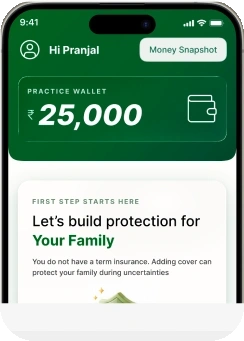
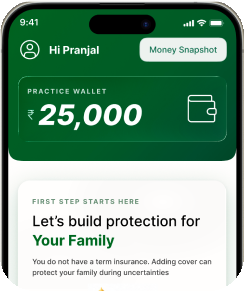
Fix cover decorative shape clipping and wallet phone crop
The bottom-left decorative circles used the same fixed pixel offset
(-bottom-40 -left-16) for two different sizes: the smaller green
circle's own diameter was less than that offset, pushing it entirely
past the section's overflow-hidden edge, and the larger dark circle
showed only a ~32px sliver. Switched both to a bottom-0/left-0 anchor
with a -50%/50% translate (relative to each circle's own size), so
they nest concentrically and each renders a clean, equally-sized
quarter-circle regardless of diameter.

The wallet (₹25,000) phone's crop extended past its own device frame
into a second, unrelated card bleeding in behind it in the source
screenshot; the rounded-corner alpha mask was applied to that whole
box, so its bottom corners sliced through that second card's icon
instead of closing over blank space. Recropped it to end right after
the wallet card's own visible text, before that trailing content
begins, and adjusted its collage box height to match. Also switched
the confidence-jar mask to only round its real (left) bezel corners
instead of a uniform radius that was cutting into the heading and
button on its unbordered right edge.

Claude-Session: https://claude.ai/code/session_01CvXyHwVeWoPLiFrqvSQd6F

diff --git a/components/stackup/cover-section.tsx b/components/stackup/cover-section.tsx
@@ -22,10 +22,23 @@ import { Container } from "@/components/stackup/container";
  * channel, a plain CSS `drop-shadow` filter correctly follows the
  * phone's silhouette instead of shadowing a rectangular bounding box.
  *
- * "confidence-jar" and "wallet" are still cropped exactly as far as
- * the source screenshot itself shows them — it cuts the first off at
- * its own right edge and the second at its own bottom edge, so there
- * is no more of either phone to recover without a fresh export.
+ * "confidence-jar" is still cropped exactly as far as the source
+ * screenshot itself shows it — its bezel's own right edge simply isn't
+ * captured (the visible card content already runs flush to the
+ * screenshot's edge, no border drawn), so its mask only rounds the two
+ * corners that have a real curve to follow (left side) and leaves the
+ * right side square rather than carving a fake curve through real text.
+ *
+ * "wallet"'s crop was previously taken all the way down to where the
+ * source screenshot itself ends, well past the phone's own frame —
+ * that tail was blank canvas plus the first sliver of a second,
+ * unrelated card bleeding in behind it, and the rounded-rect mask was
+ * being applied to that whole (wrong) box, so its bottom corners cut
+ * straight through that second card's icon instead of closing off a
+ * blank area. The crop now stops right after the wallet card's own
+ * visible text, before any of that trailing content begins, so the
+ * mask's rounded corners fall on clean background and the phone reads
+ * as one complete, self-contained screen.
  *
  * The cluster's own wrapper is capped with `lg:max-w-[30rem]` rather
  * than left to grow via `flex-1`: this bounding box's aspect ratio
@@ -39,7 +52,7 @@ const PHONES = [
   { src: "/images/stackup/phone-onboarding-cutout.webp", box: { left: 0, top: 16.1, width: 32.6, height: 63.1 }, z: 3 },
   { src: "/images/stackup/phone-starting-point-cutout.webp", box: { left: 35.7, top: 0, width: 32.9, height: 48.8 }, z: 2 },
   { src: "/images/stackup/phone-confidence-jar-cutout.webp", box: { left: 72.1, top: 15.9, width: 27.9, height: 63.1 }, z: 1 },
-  { src: "/images/stackup/phone-wallet-cutout.webp", box: { left: 35.8, top: 57.7, width: 32.4, height: 42.3 }, z: 2 },
+  { src: "/images/stackup/phone-wallet-cutout.webp", box: { left: 35.8, top: 57.7, width: 32.4, height: 36.1 }, z: 2 },
 ] as const;
 
 export function CoverSection() {
@@ -51,18 +64,27 @@ export function CoverSection() {
     >
       {/* Decorative bottom-left rings from the reference cover — plain
           CSS circles, not an image, since they're flat solid shapes.
-          Kept deliberately small and pushed well below the section's
-          own content edge so they clear the text column's tallest
-          wrap at any breakpoint. */}
+          Both are anchored to the exact same corner point (bottom-0
+          left-0) and pulled out by a `translate` expressed as a
+          percentage of each circle's OWN size, not a fixed pixel
+          offset. A fixed offset (e.g. -160px) shared between two
+          different-sized circles broke this: the smaller circle's own
+          diameter was less than the offset, pushing it entirely past
+          the section's overflow-hidden edge (0px visible), while the
+          larger circle showed only a paper-thin sliver instead of a
+          clean quarter-circle bleeding from the corner. A -50%/-50%
+          translate always leaves exactly one quarter of each circle
+          visible, regardless of its size, so they nest concentrically
+          and read as one intentional two-tone shape in the corner. */}
       <div
         aria-hidden="true"
-        className="pointer-events-none absolute -bottom-40 -left-16 h-48 w-48 rounded-full"
-        style={{ background: "#3a3a3a" }}
+        className="pointer-events-none absolute bottom-0 left-0 h-48 w-48 rounded-full"
+        style={{ background: "#3a3a3a", transform: "translate(-50%, 50%)" }}
       />
       <div
         aria-hidden="true"
-        className="pointer-events-none absolute -bottom-40 -left-16 h-36 w-36 rounded-full"
-        style={{ background: "var(--stackup-green)" }}
+        className="pointer-events-none absolute bottom-0 left-0 h-36 w-36 rounded-full"
+        style={{ background: "var(--stackup-green)", transform: "translate(-50%, 50%)" }}
       />
 
       <Container className="relative flex flex-col items-center gap-10 lg:flex-row lg:items-center lg:justify-center lg:gap-16 xl:gap-24">
